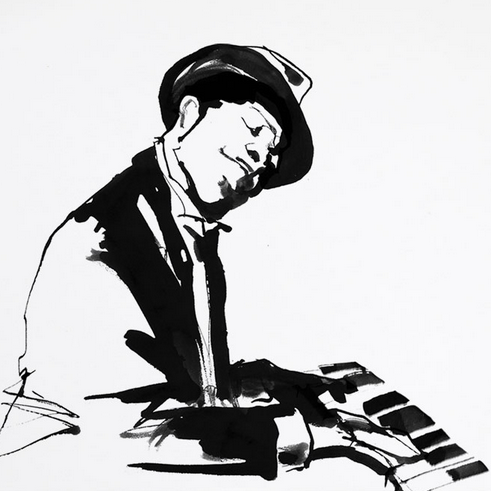
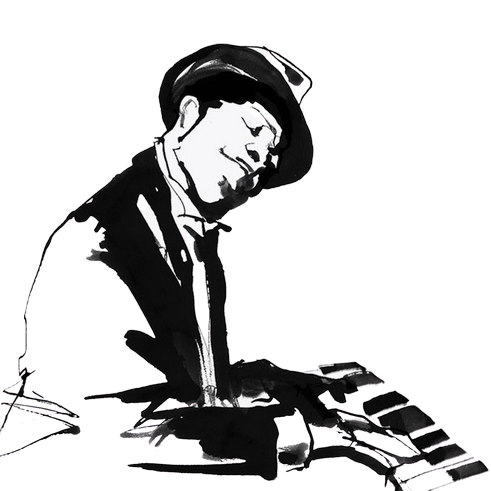
adding last design to score page

diff --git a/frontend/src/components/Table/style.jsx b/frontend/src/components/Table/style.jsx
@@ -8,9 +8,9 @@ background-color:#F4F4F6;
   align-items:center;
   justify-content:space-between;
   color: #c56e33;
-  p {
+  /* p {
     text-align: center;
-  }
+  } */
   margin-right:-5rem;
   
   span {
@@ -31,6 +31,7 @@ background-color:#F4F4F6;
     list-style: none;
     padding: 0.5rem;
     background-color:#F4F4F6;
+    font-size:1.2rem;
     
   }
 
@@ -44,11 +45,19 @@ background-color:#F4F4F6;
     background-color:#F4F4F6;
     text-decoration: underline;
     text-underline-offset: 8px;
-    text-align: center;
+
   }
   .right,
   h4 {
-    font-size: 1.25rem;
+    height:0vh;
+    margin-top:-8%;
+    margin-bottom:13%;
+    margin-left:28rem;
+    font-size: 1.6rem;
+    margin-right:0rem;
+    width:15rem;
+    font-weight: bold;
+    background-color:#F4F4F6;
   }
 
   .left {
@@ -112,5 +121,126 @@ font-size:1.5rem;
 
   ul {
     padding: 0 1rem;
+  }
+
+
+  li {
+    background-color:#F4F4F6;
+    margin-left:10rem;
+    margin-bottom:0rem;
+ 
+  }
+
+  @media screen and (max-width: 768px) {
+    background-color: white;
+    height:100vh;
+    width:100vw;
+    justify-content:space-evenly;
+    .points {
+
+margin-left:initial;
+
+}
+    
+    span {
+    font-weight: bold;
+    color: #551e19;
+    background-color:white;
+    margin-top:3%;
+  }
+    flex-direction: column;
+    .right,
+    .left {
+      margin: auto;
+      padding: 0rem;
+      border: none;
+    }
+    li {
+      text-align: center;
+    }
+    h4 {
+      margin-top: 10vh;
+    }
+
+    .left, .right{
+      background-image:none;
+    }
+    .points {
+text-align:center;
+font-size:1.5rem;
+}
+
+    .right,
+  h4 {
+    height:initial;
+    margin-top:initial;
+    margin-bottom:3vh;
+    margin-left:initial;
+    font-size: 1.6rem;
+    margin-right:initial;
+    width:initial;
+    text-align:center;
+    background-color:white;
+  }
+
+  .left {
+    height:initial;
+    margin-top:initial;
+    margin-bottom:initial;
+    margin-right:initial;
+    margin-left:initial;
+    padding-right:initial;
+    height:10vh;
+    display:flex;
+    justify-content: space-between;
+    flex-direction:column;
+    background-color:white;
+  }
+
+.left h4 {
+  margin-right:initial;
+  margin-left:initial;
+  margin-bottom:initial;
+  width:initial;
+  background-color:white;
+
+}
+
+  .right {
+    background-color:white;
+    height:initial;
+    margin-top:initial;
+    margin-bottom:initial;
+    margin-left:initial;
+    padding-left:initial;
+    width:initial;  
+
+
+  }
+
+    ul{
+    padding-left:initial;
+    font-size:initial;
+    padding-top:initial;
+    margin-left:initial;
+    margin-top:initial;
+    height:initial;
+    display:flex;
+    justify-content: space-between;
+    flex-direction:column;
+    height:50vh;
+  }
+
+  ul {
+    padding: initial;
+  }
+
+
+  li {
+    margin-left:initial;
+    margin-bottom:initial;
+    background-color:white;
+ 
+  }
   }
 `;

diff --git a/frontend/src/pages/Home/style.jsx b/frontend/src/pages/Home/style.jsx
@@ -222,9 +222,9 @@ export default styled.section`
       max-height: 40vh;
     }
     p {
-      text-align: center;
-      margin: 0 0;
-      font-size: 1.2rem;
+      text-align: justify;
+      margin: 1.1vh 0;
+      font-size: 1.5rem;
       padding-left: initial;
       width: 90%;
     }
@@ -234,6 +234,17 @@ export default styled.section`
     .texte {
       align-items: center;
       margin-top: 3%;
+    }
+
+    span {
+      display: inline;
+    }
+
+    .texte {
+      display: flex;
+      flex-direction: column;
+      margin-bottom: 0rem;
+      margin: auto;
     }
   }
 `;

diff --git a/frontend/src/components/Button/style.jsx b/frontend/src/components/Button/style.jsx
@@ -11,9 +11,9 @@ export default styled.article`
     align-items: center;
     text-align: center;
     vertical-align: center;
-    width: 80%;
+    width: 32%;
     margin: auto;
-    margin-top: 1.5rem;
+    margin-top: 1.3rem;
     height: 3rem;
     font-size: 1rem;
     font-weight: bold;
@@ -31,7 +31,7 @@ export default styled.article`
   @media screen and (max-width: 768px) {
     .buttonRepsonse {
       height: 8vh;
-      margin-top: 7%;
+      margin-top: 9%;
       font-size: 1rem;
       z-index: 1;
       background-image: none;

diff --git a/frontend/src/pages/Score/style.jsx b/frontend/src/pages/Score/style.jsx
@@ -20,8 +20,13 @@ export default styled.section`
   }
 
   @media screen and (max-width: 768px) {
-    height: 100vh;
+    background-color: white;
+    height: 100%;
     h2 {
+      display: none;
+    }
+
+    .footer {
       display: none;
     }
   }

diff --git a/frontend/src/components/Headerphone/style.jsx b/frontend/src/components/Headerphone/style.jsx
@@ -12,7 +12,7 @@ export default styled.nav`
   }
   button {
     color: white;
-    margin: 18vh auto;
+    margin: 22vh auto;
     font-size: 3rem;
     font-family: "myFirstFont";
     background-color: transparent;
